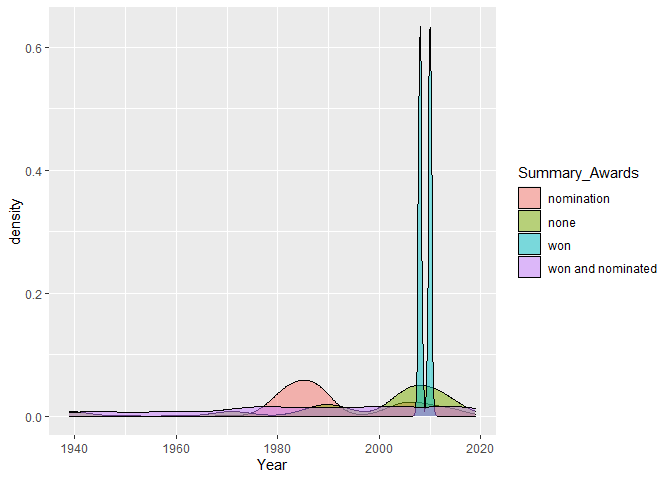
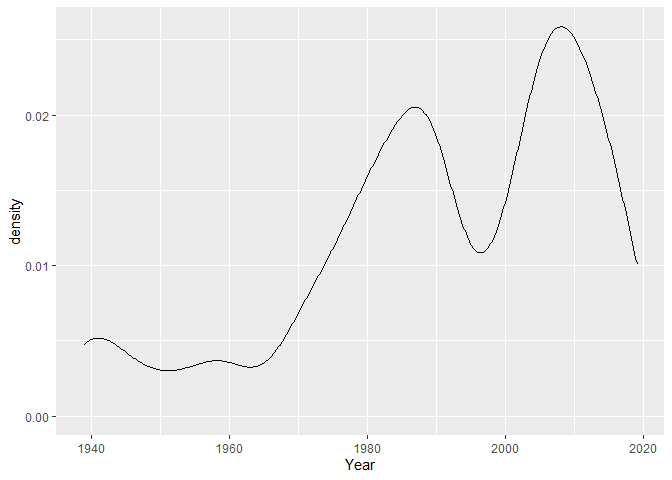
3:26_6_25_2022

diff --git a/README.md b/README.md
@@ -916,7 +916,7 @@ size = 2, binwidth = 3)
 Let’s smooth it out!
 
 ``` r
-g + geom_density(adjust = 0.5, alpha = 0.5, aes(fill = Summary_Awards))
+g + geom_density(adjust = 0.5, alpha = 0.5)
 ```
 
 ![](README_files/figure-gfm/3_21_6_25_2022-1.png)<!-- -->
